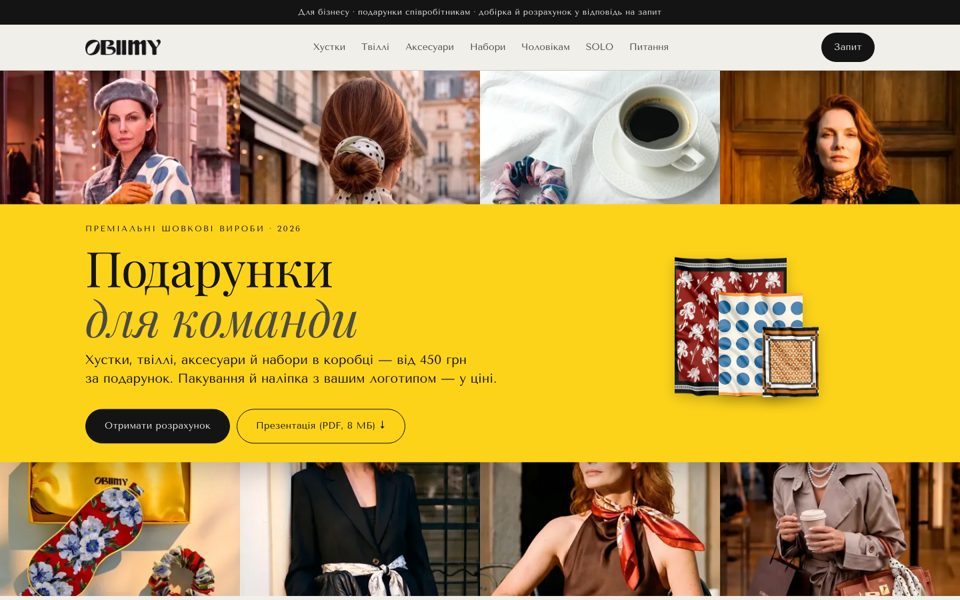
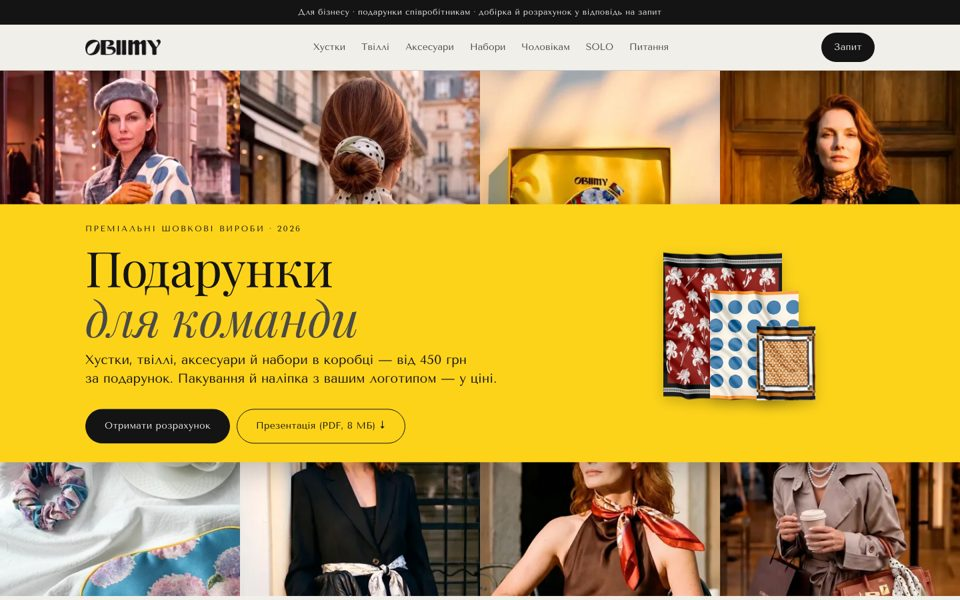
b2b-deck: chips outside the hero (sticky down the page), top bar hidden and 4:3 frames on the phone so the call sits in the first screen, the boxed mask in the top strip, larger nested scarves in the band

Changed region(s): [[0.0, 0.75, 0.25, 1.0], [0.5, 0.09, 0.75, 0.36], [0.6875, 0.42, 0.875, 0.69]]

diff --git a/b2b-deck.html b/b2b-deck.html
@@ -718,14 +718,15 @@
   .hero.dk-cover { padding: 0; position: relative; }
   .dk-mosaic { display: grid; grid-template-columns: repeat(4, 1fr); max-height: calc(100vh - 112px); overflow: hidden; } .dk-mosaic img { width: 100%; aspect-ratio: 4 / 5; object-fit: cover; display: block; }
   .dk-band { position: absolute; left: 0; right: 0; top: 50%; transform: translateY(-50%); background: #FDD31A; color: #141414; padding: clamp(18px, 2.4vw, 28px) 0; box-shadow: 0 10px 40px rgba(0,0,0,.25); } .dk-band .wrap { display: grid; grid-template-columns: 1fr auto; align-items: center; gap: 32px; }
-  .dk-band-art { position: relative; width: 300px; height: 190px; } .dk-band-art figure { position: absolute; bottom: 0; margin: 0; } .dk-band-art img { display: block; filter: drop-shadow(0 6px 10px rgba(0,0,0,.2)); } .dk-band-art .dk-n0 { left: 0; width: 56%; } .dk-band-art .dk-n1 { left: 22%; width: 42%; } .dk-band-art .dk-n2 { left: 44%; width: 28%; }
+  .dk-band-art { position: relative; width: clamp(240px, 22vw, 320px); height: 200px; justify-self: end; } .dk-band-art figure { position: absolute; bottom: 0; margin: 0; } .dk-band-art img { display: block; filter: drop-shadow(0 6px 10px rgba(0,0,0,.2)); } .dk-band-art .dk-n0 { left: 0; width: 56%; } .dk-band-art .dk-n1 { left: 22%; width: 42%; } .dk-band-art .dk-n2 { left: 44%; width: 28%; }
   .dk-band-t { max-width: 760px; } .dk-band .eyebrow { color: #141414; font-weight: 400; margin: 0 0 10px; }
   .dk-band h1 { font-size: var(--fs-h1); line-height: 1.02; margin: 0 0 12px; } .dk-band h1 i { color: #4A4A47; }
   .dk-band-lead { font-size: 1.2rem; line-height: 1.5; color: #141414; margin: 0 0 16px; max-width: 640px; }
   .dk-band .cta { display: flex; gap: 10px; flex-wrap: wrap; } .dk-band .btn-gold { background: #141414; color: #F1EFEA; } .dk-band .btn-line { border-color: #141414; color: #141414; }
   .dk-chips { display: none; }
-  @media (max-width: 900px) { .dk-mosaic { grid-template-columns: repeat(2, 1fr); max-height: 52vh; } .dk-mosaic img { aspect-ratio: 1 / 1; } .dk-mosaic img:nth-child(n+5) { display: none; } .dk-band { position: static; transform: none; box-shadow: none; padding: 22px 0 20px; } .dk-band .wrap { grid-template-columns: 1fr; } .dk-band-art { display: none; } .dk-band .cta { gap: 14px; } }
-  @media (max-width: 760px) { .dk-chips { display: flex; gap: 8px; overflow-x: auto; padding: 8px clamp(16px, 4vw, 48px); scrollbar-width: none; background: var(--bg); border-bottom: 1px solid var(--line); position: sticky; top: 69px; z-index: 40; } .dk-chips::-webkit-scrollbar { display: none; }
+  @media (max-width: 900px) { .dk-mosaic { grid-template-columns: repeat(2, 1fr); max-height: 52vh; } .dk-mosaic img { aspect-ratio: 4 / 3; } .dk-mosaic img:nth-child(n+5) { display: none; } .dk-band { position: static; transform: none; box-shadow: none; padding: 22px 0 20px; } .dk-band .wrap { grid-template-columns: 1fr; } .dk-band-art { display: none; } .dk-band .cta { gap: 14px; } }
+  @media (max-width: 640px) { .bar { display: none; } }
+  @media (max-width: 760px) { section[id] { scroll-margin-top: 150px; } .dk-chips { display: flex; gap: 8px; overflow-x: auto; padding: 8px clamp(16px, 4vw, 48px); scrollbar-width: none; background: var(--bg); border-bottom: 1px solid var(--line); position: sticky; top: 69px; z-index: 40; } .dk-chips::-webkit-scrollbar { display: none; }
     .dk-chips a { flex: none; font-size: .875rem; letter-spacing: .04em; padding: 10px 14px; min-height: 44px; display: inline-flex; align-items: center; border: 1px solid var(--line); border-radius: 999px; color: var(--ink); text-decoration: none; } }
   .dk-split { padding-block: clamp(40px, 6vw, 96px); } .dk-split .wrap { display: grid; grid-template-columns: 1fr 1fr; gap: clamp(24px, 5vw, 72px); align-items: center; }
   .dk-split figure { margin: 0; } .dk-split figure img { width: 100%; aspect-ratio: 148.5 / 210; object-fit: cover; display: block; }
@@ -784,15 +785,14 @@
 <main>
 
   <section class="hero dk-cover" id="top">
-    <div class="dk-mosaic"><img src="photo/solo/iskra-65-4-800.webp" srcset="photo/solo/iskra-65-4-480.webp 480w, photo/solo/iskra-65-4-800.webp 800w, photo/solo/iskra-65-4-1200.webp 1200w, photo/solo/iskra-65-4.webp 1600w" sizes="(max-width: 900px) 50vw, 25vw" width="1600" height="1600" alt="" style="object-position:50% 34%"><img src="photo/solo/flirt-tw-1-800.webp" srcset="photo/solo/flirt-tw-1-480.webp 480w, photo/solo/flirt-tw-1-800.webp 800w, photo/solo/flirt-tw-1-1200.webp 1200w, photo/solo/flirt-tw-1.webp 1600w" sizes="(max-width: 900px) 50vw, 25vw" width="1600" height="1600" alt="" style="object-position:50% 30%"><img src="photo/site/mask-shchyri-pochuttia-04-800.webp" srcset="photo/site/mask-shchyri-pochuttia-04-480.webp 480w, photo/site/mask-shchyri-pochuttia-04-800.webp 800w, photo/site/mask-shchyri-pochuttia-04-1200.webp 1200w, photo/site/mask-shchyri-pochuttia-04.jpg 1500w" sizes="(max-width: 900px) 50vw, 25vw" width="1500" height="1500" alt="" style="object-position:0% 72%"><img src="photo/solo/zolote-44-2-800.webp" srcset="photo/solo/zolote-44-2-480.webp 480w, photo/solo/zolote-44-2-800.webp 800w, photo/solo/zolote-44-2-1200.webp 1200w, photo/solo/zolote-44-2.webp 1600w" sizes="(max-width: 900px) 50vw, 25vw" width="1600" height="1600" alt="" style="object-position:50% 30%"><img src="photo/site/maska-dlia-snu-ta-rezynka-vpevnenist-03-800.webp" srcset="photo/site/maska-dlia-snu-ta-rezynka-vpevnenist-03-480.webp 480w, photo/site/maska-dlia-snu-ta-rezynka-vpevnenist-03-800.webp 800w, photo/site/maska-dlia-snu-ta-rezynka-vpevnenist-03-1200.webp 1200w, photo/site/maska-dlia-snu-ta-rezynka-vpevnenist-03.jpg 1500w" sizes="(max-width: 900px) 50vw, 25vw" width="1500" height="1500" alt="" loading="lazy" decoding="async" style="object-position:50% 50%"><img src="photo/solo/tysha-88-4-800.webp" srcset="photo/solo/tysha-88-4-480.webp 480w, photo/solo/tysha-88-4-800.webp 800w, photo/solo/tysha-88-4-1200.webp 1200w, photo/solo/tysha-88-4.webp 1600w" sizes="(max-width: 900px) 50vw, 25vw" width="1600" height="1600" alt="" loading="lazy" decoding="async" style="object-position:50% 32%"><img src="photo/solo/krok-44-2-800.webp" srcset="photo/solo/krok-44-2-480.webp 480w, photo/solo/krok-44-2-800.webp 800w, photo/solo/krok-44-2-1200.webp 1200w, photo/solo/krok-44-2.webp 1600w" sizes="(max-width: 900px) 50vw, 25vw" width="1600" height="1600" alt="" loading="lazy" decoding="async" style="object-position:50% 30%"><img src="photo/solo/flirt-65-4-800.webp" srcset="photo/solo/flirt-65-4-480.webp 480w, photo/solo/flirt-65-4-800.webp 800w, photo/solo/flirt-65-4-1200.webp 1200w, photo/solo/flirt-65-4.webp 1600w" sizes="(max-width: 900px) 50vw, 25vw" width="1600" height="1600" alt="" loading="lazy" decoding="async" style="object-position:50% 32%"></div>
+    <div class="dk-mosaic"><img src="photo/solo/iskra-65-4-800.webp" srcset="photo/solo/iskra-65-4-480.webp 480w, photo/solo/iskra-65-4-800.webp 800w, photo/solo/iskra-65-4-1200.webp 1200w, photo/solo/iskra-65-4.webp 1600w" sizes="(max-width: 900px) 50vw, 25vw" width="1600" height="1600" alt="" style="object-position:50% 34%"><img src="photo/solo/flirt-tw-1-800.webp" srcset="photo/solo/flirt-tw-1-480.webp 480w, photo/solo/flirt-tw-1-800.webp 800w, photo/solo/flirt-tw-1-1200.webp 1200w, photo/solo/flirt-tw-1.webp 1600w" sizes="(max-width: 900px) 50vw, 25vw" width="1600" height="1600" alt="" style="object-position:50% 30%"><img src="photo/site/maska-dlia-snu-ta-rezynka-vpevnenist-03-800.webp" srcset="photo/site/maska-dlia-snu-ta-rezynka-vpevnenist-03-480.webp 480w, photo/site/maska-dlia-snu-ta-rezynka-vpevnenist-03-800.webp 800w, photo/site/maska-dlia-snu-ta-rezynka-vpevnenist-03-1200.webp 1200w, photo/site/maska-dlia-snu-ta-rezynka-vpevnenist-03.jpg 1500w" sizes="(max-width: 900px) 50vw, 25vw" width="1500" height="1500" alt="" style="object-position:50% 45%"><img src="photo/solo/zolote-44-2-800.webp" srcset="photo/solo/zolote-44-2-480.webp 480w, photo/solo/zolote-44-2-800.webp 800w, photo/solo/zolote-44-2-1200.webp 1200w, photo/solo/zolote-44-2.webp 1600w" sizes="(max-width: 900px) 50vw, 25vw" width="1600" height="1600" alt="" style="object-position:50% 30%"><img src="photo/site/mask-shchyri-pochuttia-04-800.webp" srcset="photo/site/mask-shchyri-pochuttia-04-480.webp 480w, photo/site/mask-shchyri-pochuttia-04-800.webp 800w, photo/site/mask-shchyri-pochuttia-04-1200.webp 1200w, photo/site/mask-shchyri-pochuttia-04.jpg 1500w" sizes="(max-width: 900px) 50vw, 25vw" width="1500" height="1500" alt="" loading="lazy" decoding="async" style="object-position:0% 60%"><img src="photo/solo/tysha-88-4-800.webp" srcset="photo/solo/tysha-88-4-480.webp 480w, photo/solo/tysha-88-4-800.webp 800w, photo/solo/tysha-88-4-1200.webp 1200w, photo/solo/tysha-88-4.webp 1600w" sizes="(max-width: 900px) 50vw, 25vw" width="1600" height="1600" alt="" loading="lazy" decoding="async" style="object-position:50% 32%"><img src="photo/solo/krok-44-2-800.webp" srcset="photo/solo/krok-44-2-480.webp 480w, photo/solo/krok-44-2-800.webp 800w, photo/solo/krok-44-2-1200.webp 1200w, photo/solo/krok-44-2.webp 1600w" sizes="(max-width: 900px) 50vw, 25vw" width="1600" height="1600" alt="" loading="lazy" decoding="async" style="object-position:50% 30%"><img src="photo/solo/flirt-65-4-800.webp" srcset="photo/solo/flirt-65-4-480.webp 480w, photo/solo/flirt-65-4-800.webp 800w, photo/solo/flirt-65-4-1200.webp 1200w, photo/solo/flirt-65-4.webp 1600w" sizes="(max-width: 900px) 50vw, 25vw" width="1600" height="1600" alt="" loading="lazy" decoding="async" style="object-position:50% 32%"></div>
     <div class="dk-band"><div class="wrap">
       <div class="dk-band-t"><p class="eyebrow">Преміальні шовкові вироби · 2026</p><h1>Подарунки <i>для команди</i></h1>
       <p class="dk-band-lead">Хустки, твіллі, аксесуари й набори в коробці — від 450 грн за подарунок. Пакування й наліпка з вашим логотипом — у ціні.</p>
       <div class="cta"><a class="btn btn-gold" href="#request">Отримати розрахунок</a><a class="btn btn-line" href="obiimy-podarunky-dlia-komandy.pdf" download="Obiimy-podarunky-dlia-komandy.pdf" type="application/pdf">Презентація (PDF, 8 МБ) ↓</a></div></div>
       <div class="dk-band-art"><figure class="dk-n0"><img src="img/cut/avantiura-88-1-800.webp" srcset="img/cut/avantiura-88-1-480.webp 480w, img/cut/avantiura-88-1-800.webp 800w, img/cut/avantiura-88-1-1200.webp 1200w, img/cut/avantiura-88-1.webp 1587w" sizes="260px" width="1587" height="1626" alt="Хустка 88 × 88" loading="lazy" decoding="async"></figure><figure class="dk-n1"><img src="img/cut/iskra-65-1-800.webp" srcset="img/cut/iskra-65-1-480.webp 480w, img/cut/iskra-65-1-800.webp 800w, img/cut/iskra-65-1-1200.webp 1200w, img/cut/iskra-65-1.webp 1714w" sizes="260px" width="1714" height="1703" alt="Хустка 65 × 65" loading="lazy" decoding="async"></figure><figure class="dk-n2"><img src="img/cut/zolote-44-1-800.webp" srcset="img/cut/zolote-44-1-480.webp 480w, img/cut/zolote-44-1-800.webp 800w, img/cut/zolote-44-1-1200.webp 1200w, img/cut/zolote-44-1.webp 1598w" sizes="260px" width="1598" height="1636" alt="Хустка 44 × 44" loading="lazy" decoding="async"></figure></div>
     </div></div>
-    <nav class="dk-chips" aria-label="Розділи сторінки"><a href="#scarves">Хустки</a><a href="#twilly">Твіллі</a><a href="#acc">Аксесуари</a><a href="#sets">Набори</a><a href="#men">Чоловікам</a><a href="#solo">SOLO</a><a href="#faq">Питання</a></nav>
-  </section>
+  </section><nav class="dk-chips" aria-label="Розділи сторінки"><a href="#scarves">Хустки</a><a href="#twilly">Твіллі</a><a href="#acc">Аксесуари</a><a href="#sets">Набори</a><a href="#men">Чоловікам</a><a href="#solo">SOLO</a><a href="#faq">Питання</a></nav>
   <section class="dk-split" id="about"><div class="wrap">
     <figure><img src="photo/solo/iskra-65-2-800.webp" srcset="photo/solo/iskra-65-2-480.webp 480w, photo/solo/iskra-65-2-800.webp 800w, photo/solo/iskra-65-2-1200.webp 1200w, photo/solo/iskra-65-2.webp 1600w" sizes="(max-width: 900px) 100vw, 50vw" width="1600" height="1600" alt="Хустка «Іскра» 65 × 65 на плечах" loading="lazy" decoding="async" style="object-position:44% 0%"></figure>
     <div class="dk-ab"><p class="dk-ab-lead">Obiimy — український бренд натуральних шовкових виробів з авторськими принтами художниці та засновниці Світлани Сніжко. Ми створюємо речі, що поєднують красу, мистецтво та турботу — і дарують емоції з першого дотику.</p><p>Усі вироби — зі 100% натурального шовку преміум-класу: ніжний блиск, м’яка текстура, вишуканість у кожному образі.</p><p>«Обійми» були засновані в часи війни. Бренд бере участь у благодійних ініціативах на допомогу військовим і тим, хто постраждав від конфлікту, — і кожен, хто обирає «Обійми», стає частиною цієї місії.</p></div>

diff --git a/site/b2b-deck.html b/site/b2b-deck.html
@@ -721,14 +721,15 @@
   .hero.dk-cover { padding: 0; position: relative; }
   .dk-mosaic { display: grid; grid-template-columns: repeat(4, 1fr); max-height: calc(100vh - 112px); overflow: hidden; } .dk-mosaic img { width: 100%; aspect-ratio: 4 / 5; object-fit: cover; display: block; }
   .dk-band { position: absolute; left: 0; right: 0; top: 50%; transform: translateY(-50%); background: #FDD31A; color: #141414; padding: clamp(18px, 2.4vw, 28px) 0; box-shadow: 0 10px 40px rgba(0,0,0,.25); } .dk-band .wrap { display: grid; grid-template-columns: 1fr auto; align-items: center; gap: 32px; }
-  .dk-band-art { position: relative; width: 300px; height: 190px; } .dk-band-art figure { position: absolute; bottom: 0; margin: 0; } .dk-band-art img { display: block; filter: drop-shadow(0 6px 10px rgba(0,0,0,.2)); } .dk-band-art .dk-n0 { left: 0; width: 56%; } .dk-band-art .dk-n1 { left: 22%; width: 42%; } .dk-band-art .dk-n2 { left: 44%; width: 28%; }
+  .dk-band-art { position: relative; width: clamp(240px, 22vw, 320px); height: 200px; justify-self: end; } .dk-band-art figure { position: absolute; bottom: 0; margin: 0; } .dk-band-art img { display: block; filter: drop-shadow(0 6px 10px rgba(0,0,0,.2)); } .dk-band-art .dk-n0 { left: 0; width: 56%; } .dk-band-art .dk-n1 { left: 22%; width: 42%; } .dk-band-art .dk-n2 { left: 44%; width: 28%; }
   .dk-band-t { max-width: 760px; } .dk-band .eyebrow { color: #141414; font-weight: 400; margin: 0 0 10px; }
   .dk-band h1 { font-size: var(--fs-h1); line-height: 1.02; margin: 0 0 12px; } .dk-band h1 i { color: #4A4A47; }
   .dk-band-lead { font-size: 1.2rem; line-height: 1.5; color: #141414; margin: 0 0 16px; max-width: 640px; }
   .dk-band .cta { display: flex; gap: 10px; flex-wrap: wrap; } .dk-band .btn-gold { background: #141414; color: #F1EFEA; } .dk-band .btn-line { border-color: #141414; color: #141414; }
   .dk-chips { display: none; }
-  @media (max-width: 900px) { .dk-mosaic { grid-template-columns: repeat(2, 1fr); max-height: 52vh; } .dk-mosaic img { aspect-ratio: 1 / 1; } .dk-mosaic img:nth-child(n+5) { display: none; } .dk-band { position: static; transform: none; box-shadow: none; padding: 22px 0 20px; } .dk-band .wrap { grid-template-columns: 1fr; } .dk-band-art { display: none; } .dk-band .cta { gap: 14px; } }
-  @media (max-width: 760px) { .dk-chips { display: flex; gap: 8px; overflow-x: auto; padding: 8px clamp(16px, 4vw, 48px); scrollbar-width: none; background: var(--bg); border-bottom: 1px solid var(--line); position: sticky; top: 69px; z-index: 40; } .dk-chips::-webkit-scrollbar { display: none; }
+  @media (max-width: 900px) { .dk-mosaic { grid-template-columns: repeat(2, 1fr); max-height: 52vh; } .dk-mosaic img { aspect-ratio: 4 / 3; } .dk-mosaic img:nth-child(n+5) { display: none; } .dk-band { position: static; transform: none; box-shadow: none; padding: 22px 0 20px; } .dk-band .wrap { grid-template-columns: 1fr; } .dk-band-art { display: none; } .dk-band .cta { gap: 14px; } }
+  @media (max-width: 640px) { .bar { display: none; } }
+  @media (max-width: 760px) { section[id] { scroll-margin-top: 150px; } .dk-chips { display: flex; gap: 8px; overflow-x: auto; padding: 8px clamp(16px, 4vw, 48px); scrollbar-width: none; background: var(--bg); border-bottom: 1px solid var(--line); position: sticky; top: 69px; z-index: 40; } .dk-chips::-webkit-scrollbar { display: none; }
     .dk-chips a { flex: none; font-size: .875rem; letter-spacing: .04em; padding: 10px 14px; min-height: 44px; display: inline-flex; align-items: center; border: 1px solid var(--line); border-radius: 999px; color: var(--ink); text-decoration: none; } }
   .dk-split { padding-block: clamp(40px, 6vw, 96px); } .dk-split .wrap { display: grid; grid-template-columns: 1fr 1fr; gap: clamp(24px, 5vw, 72px); align-items: center; }
   .dk-split figure { margin: 0; } .dk-split figure img { width: 100%; aspect-ratio: 148.5 / 210; object-fit: cover; display: block; }
@@ -790,15 +791,14 @@
 <main>
 
   <section class="hero dk-cover" id="top">
-    <div class="dk-mosaic"><img src="photo/solo/iskra-65-4-800.webp" srcset="photo/solo/iskra-65-4-480.webp 480w, photo/solo/iskra-65-4-800.webp 800w, photo/solo/iskra-65-4-1200.webp 1200w, photo/solo/iskra-65-4.webp 1600w" sizes="(max-width: 900px) 50vw, 25vw" width="1600" height="1600" alt="" style="object-position:50% 34%"><img src="photo/solo/flirt-tw-1-800.webp" srcset="photo/solo/flirt-tw-1-480.webp 480w, photo/solo/flirt-tw-1-800.webp 800w, photo/solo/flirt-tw-1-1200.webp 1200w, photo/solo/flirt-tw-1.webp 1600w" sizes="(max-width: 900px) 50vw, 25vw" width="1600" height="1600" alt="" style="object-position:50% 30%"><img src="photo/site/mask-shchyri-pochuttia-04-800.webp" srcset="photo/site/mask-shchyri-pochuttia-04-480.webp 480w, photo/site/mask-shchyri-pochuttia-04-800.webp 800w, photo/site/mask-shchyri-pochuttia-04-1200.webp 1200w, photo/site/mask-shchyri-pochuttia-04.jpg 1500w" sizes="(max-width: 900px) 50vw, 25vw" width="1500" height="1500" alt="" style="object-position:0% 72%"><img src="photo/solo/zolote-44-2-800.webp" srcset="photo/solo/zolote-44-2-480.webp 480w, photo/solo/zolote-44-2-800.webp 800w, photo/solo/zolote-44-2-1200.webp 1200w, photo/solo/zolote-44-2.webp 1600w" sizes="(max-width: 900px) 50vw, 25vw" width="1600" height="1600" alt="" style="object-position:50% 30%"><img src="photo/site/maska-dlia-snu-ta-rezynka-vpevnenist-03-800.webp" srcset="photo/site/maska-dlia-snu-ta-rezynka-vpevnenist-03-480.webp 480w, photo/site/maska-dlia-snu-ta-rezynka-vpevnenist-03-800.webp 800w, photo/site/maska-dlia-snu-ta-rezynka-vpevnenist-03-1200.webp 1200w, photo/site/maska-dlia-snu-ta-rezynka-vpevnenist-03.jpg 1500w" sizes="(max-width: 900px) 50vw, 25vw" width="1500" height="1500" alt="" loading="lazy" decoding="async" style="object-position:50% 50%"><img src="photo/solo/tysha-88-4-800.webp" srcset="photo/solo/tysha-88-4-480.webp 480w, photo/solo/tysha-88-4-800.webp 800w, photo/solo/tysha-88-4-1200.webp 1200w, photo/solo/tysha-88-4.webp 1600w" sizes="(max-width: 900px) 50vw, 25vw" width="1600" height="1600" alt="" loading="lazy" decoding="async" style="object-position:50% 32%"><img src="photo/solo/krok-44-2-800.webp" srcset="photo/solo/krok-44-2-480.webp 480w, photo/solo/krok-44-2-800.webp 800w, photo/solo/krok-44-2-1200.webp 1200w, photo/solo/krok-44-2.webp 1600w" sizes="(max-width: 900px) 50vw, 25vw" width="1600" height="1600" alt="" loading="lazy" decoding="async" style="object-position:50% 30%"><img src="photo/solo/flirt-65-4-800.webp" srcset="photo/solo/flirt-65-4-480.webp 480w, photo/solo/flirt-65-4-800.webp 800w, photo/solo/flirt-65-4-1200.webp 1200w, photo/solo/flirt-65-4.webp 1600w" sizes="(max-width: 900px) 50vw, 25vw" width="1600" height="1600" alt="" loading="lazy" decoding="async" style="object-position:50% 32%"></div>
+    <div class="dk-mosaic"><img src="photo/solo/iskra-65-4-800.webp" srcset="photo/solo/iskra-65-4-480.webp 480w, photo/solo/iskra-65-4-800.webp 800w, photo/solo/iskra-65-4-1200.webp 1200w, photo/solo/iskra-65-4.webp 1600w" sizes="(max-width: 900px) 50vw, 25vw" width="1600" height="1600" alt="" style="object-position:50% 34%"><img src="photo/solo/flirt-tw-1-800.webp" srcset="photo/solo/flirt-tw-1-480.webp 480w, photo/solo/flirt-tw-1-800.webp 800w, photo/solo/flirt-tw-1-1200.webp 1200w, photo/solo/flirt-tw-1.webp 1600w" sizes="(max-width: 900px) 50vw, 25vw" width="1600" height="1600" alt="" style="object-position:50% 30%"><img src="photo/site/maska-dlia-snu-ta-rezynka-vpevnenist-03-800.webp" srcset="photo/site/maska-dlia-snu-ta-rezynka-vpevnenist-03-480.webp 480w, photo/site/maska-dlia-snu-ta-rezynka-vpevnenist-03-800.webp 800w, photo/site/maska-dlia-snu-ta-rezynka-vpevnenist-03-1200.webp 1200w, photo/site/maska-dlia-snu-ta-rezynka-vpevnenist-03.jpg 1500w" sizes="(max-width: 900px) 50vw, 25vw" width="1500" height="1500" alt="" style="object-position:50% 45%"><img src="photo/solo/zolote-44-2-800.webp" srcset="photo/solo/zolote-44-2-480.webp 480w, photo/solo/zolote-44-2-800.webp 800w, photo/solo/zolote-44-2-1200.webp 1200w, photo/solo/zolote-44-2.webp 1600w" sizes="(max-width: 900px) 50vw, 25vw" width="1600" height="1600" alt="" style="object-position:50% 30%"><img src="photo/site/mask-shchyri-pochuttia-04-800.webp" srcset="photo/site/mask-shchyri-pochuttia-04-480.webp 480w, photo/site/mask-shchyri-pochuttia-04-800.webp 800w, photo/site/mask-shchyri-pochuttia-04-1200.webp 1200w, photo/site/mask-shchyri-pochuttia-04.jpg 1500w" sizes="(max-width: 900px) 50vw, 25vw" width="1500" height="1500" alt="" loading="lazy" decoding="async" style="object-position:0% 60%"><img src="photo/solo/tysha-88-4-800.webp" srcset="photo/solo/tysha-88-4-480.webp 480w, photo/solo/tysha-88-4-800.webp 800w, photo/solo/tysha-88-4-1200.webp 1200w, photo/solo/tysha-88-4.webp 1600w" sizes="(max-width: 900px) 50vw, 25vw" width="1600" height="1600" alt="" loading="lazy" decoding="async" style="object-position:50% 32%"><img src="photo/solo/krok-44-2-800.webp" srcset="photo/solo/krok-44-2-480.webp 480w, photo/solo/krok-44-2-800.webp 800w, photo/solo/krok-44-2-1200.webp 1200w, photo/solo/krok-44-2.webp 1600w" sizes="(max-width: 900px) 50vw, 25vw" width="1600" height="1600" alt="" loading="lazy" decoding="async" style="object-position:50% 30%"><img src="photo/solo/flirt-65-4-800.webp" srcset="photo/solo/flirt-65-4-480.webp 480w, photo/solo/flirt-65-4-800.webp 800w, photo/solo/flirt-65-4-1200.webp 1200w, photo/solo/flirt-65-4.webp 1600w" sizes="(max-width: 900px) 50vw, 25vw" width="1600" height="1600" alt="" loading="lazy" decoding="async" style="object-position:50% 32%"></div>
     <div class="dk-band"><div class="wrap">
       <div class="dk-band-t"><p class="eyebrow">Преміальні шовкові вироби · 2026</p><h1>Подарунки <i>для команди</i></h1>
       <p class="dk-band-lead">Хустки, твіллі, аксесуари й набори в коробці — від 450 грн за подарунок. Пакування й наліпка з вашим логотипом — у ціні.</p>
       <div class="cta"><a class="btn btn-gold" href="#request">Отримати розрахунок</a><a class="btn btn-line" href="obiimy-podarunky-dlia-komandy.pdf" download="Obiimy-podarunky-dlia-komandy.pdf" type="application/pdf">Презентація (PDF, 8 МБ) ↓</a></div></div>
       <div class="dk-band-art"><figure class="dk-n0"><img src="img/cut/avantiura-88-1-800.webp" srcset="img/cut/avantiura-88-1-480.webp 480w, img/cut/avantiura-88-1-800.webp 800w, img/cut/avantiura-88-1-1200.webp 1200w, img/cut/avantiura-88-1.webp 1587w" sizes="260px" width="1587" height="1626" alt="Хустка 88 × 88" loading="lazy" decoding="async"></figure><figure class="dk-n1"><img src="img/cut/iskra-65-1-800.webp" srcset="img/cut/iskra-65-1-480.webp 480w, img/cut/iskra-65-1-800.webp 800w, img/cut/iskra-65-1-1200.webp 1200w, img/cut/iskra-65-1.webp 1714w" sizes="260px" width="1714" height="1703" alt="Хустка 65 × 65" loading="lazy" decoding="async"></figure><figure class="dk-n2"><img src="img/cut/zolote-44-1-800.webp" srcset="img/cut/zolote-44-1-480.webp 480w, img/cut/zolote-44-1-800.webp 800w, img/cut/zolote-44-1-1200.webp 1200w, img/cut/zolote-44-1.webp 1598w" sizes="260px" width="1598" height="1636" alt="Хустка 44 × 44" loading="lazy" decoding="async"></figure></div>
     </div></div>
-    <nav class="dk-chips" aria-label="Розділи сторінки"><a href="#scarves">Хустки</a><a href="#twilly">Твіллі</a><a href="#acc">Аксесуари</a><a href="#sets">Набори</a><a href="#men">Чоловікам</a><a href="#solo">SOLO</a><a href="#faq">Питання</a></nav>
-  </section>
+  </section><nav class="dk-chips" aria-label="Розділи сторінки"><a href="#scarves">Хустки</a><a href="#twilly">Твіллі</a><a href="#acc">Аксесуари</a><a href="#sets">Набори</a><a href="#men">Чоловікам</a><a href="#solo">SOLO</a><a href="#faq">Питання</a></nav>
   <section class="dk-split" id="about"><div class="wrap">
     <figure><img src="photo/solo/iskra-65-2-800.webp" srcset="photo/solo/iskra-65-2-480.webp 480w, photo/solo/iskra-65-2-800.webp 800w, photo/solo/iskra-65-2-1200.webp 1200w, photo/solo/iskra-65-2.webp 1600w" sizes="(max-width: 900px) 100vw, 50vw" width="1600" height="1600" alt="Хустка «Іскра» 65 × 65 на плечах" loading="lazy" decoding="async" style="object-position:44% 0%"></figure>
     <div class="dk-ab"><p class="dk-ab-lead">Obiimy — український бренд натуральних шовкових виробів з авторськими принтами художниці та засновниці Світлани Сніжко. Ми створюємо речі, що поєднують красу, мистецтво та турботу — і дарують емоції з першого дотику.</p><p>Усі вироби — зі 100% натурального шовку преміум-класу: ніжний блиск, м’яка текстура, вишуканість у кожному образі.</p><p>«Обійми» були засновані в часи війни. Бренд бере участь у благодійних ініціативах на допомогу військовим і тим, хто постраждав від конфлікту, — і кожен, хто обирає «Обійми», стає частиною цієї місії.</p></div>

diff --git a/src/build-b2b-deck.py b/src/build-b2b-deck.py
@@ -16,8 +16,8 @@ PHONE, PHONE_HREF, TG, MAIL, SHOWROOM = team.PHONE, team.PHONE_HREF, team.TG, te
 money = deck.money
 
 # ── data straight from the deck ───────────────────────────────────────────────────────────────────────────────────
-MOSAIC = [("photo/solo/iskra-65-4.webp", "50% 34%"), ("photo/solo/flirt-tw-1.webp", "50% 30%"), ("photo/site/mask-shchyri-pochuttia-04.jpg", "0% 72%"), ("photo/solo/zolote-44-2.webp", "50% 30%"),
-          ("photo/site/maska-dlia-snu-ta-rezynka-vpevnenist-03.jpg", "50% 50%"), ("photo/solo/tysha-88-4.webp", "50% 32%"), ("photo/solo/krok-44-2.webp", "50% 30%"), ("photo/solo/flirt-65-4.webp", "50% 32%")]   # the cover (cvz9); crops for the strips above and below the band
+MOSAIC = [("photo/solo/iskra-65-4.webp", "50% 34%"), ("photo/solo/flirt-tw-1.webp", "50% 30%"), ("photo/site/maska-dlia-snu-ta-rezynka-vpevnenist-03.jpg", "50% 45%"), ("photo/solo/zolote-44-2.webp", "50% 30%"),
+          ("photo/site/mask-shchyri-pochuttia-04.jpg", "0% 60%"), ("photo/solo/tysha-88-4.webp", "50% 32%"), ("photo/solo/krok-44-2.webp", "50% 30%"), ("photo/solo/flirt-65-4.webp", "50% 32%")]   # the cover (cvz9); crops for the strips above and below the band
 MORE = [("Сертифікат", "Номінали 1 000, 1 500, 2 000, 2 500 і 4 000 грн; діє три місяці.", 1000, "img/cert-card.png"),
         ("Маска, закладка й резинка", "Три речі в одному принті, у коробці.", 3600, "img/cut/sleep-pidnesennia.webp"),
         ("Хустка й кільце", "Хустка 65 × 65 і кільце — збираємо на замовлення.", 3650, "img/cut/duo-kava-ring.webp"),
@@ -36,7 +36,6 @@ def cutimg(name, alt, w=240): return img(f"img/cut/{name}.webp", alt, sizes=f"{w
 NAV = [("Хустки", "scarves"), ("Твіллі", "twilly"), ("Аксесуари", "acc"), ("Набори", "sets"), ("Чоловікам", "men"), ("SOLO", "solo"), ("Питання", "faq")]
 def hero():
     frames = "".join(img(f, "", sizes="(max-width: 900px) 50vw, 25vw", lazy=i > 3, style=f"object-position:{p}") for i, (f, p) in enumerate(MOSAIC))
-    chips = "".join(f'<a href="#{h}">{t}</a>' for t, h in NAV)
     return f'''
   <section class="hero dk-cover" id="top">
     <div class="dk-mosaic">{frames}</div>
@@ -46,8 +45,10 @@ def hero():
       <div class="cta"><a class="btn btn-gold" href="#request">Отримати розрахунок</a><a class="btn btn-line" href="obiimy-podarunky-dlia-komandy.pdf" download="Obiimy-podarunky-dlia-komandy.pdf" type="application/pdf">Презентація (PDF, {team.PDF_MB} МБ) ↓</a></div></div>
       <div class="dk-band-art">{"".join(f'<figure class="dk-n{i}">{img(f"img/cut/{c}.webp", f"Хустка {n}", sizes="260px")}</figure>' for i, (c, mm, n, p) in enumerate(deck.NEST))}</div>
     </div></div>
-    <nav class="dk-chips" aria-label="Розділи сторінки">{chips}</nav>
   </section>'''
+
+def chips():   # the phone's section menu — outside the hero so that sticky works down the whole page
+    return '<nav class="dk-chips" aria-label="Розділи сторінки">' + "".join(f'<a href="#{h}">{t}</a>' for t, h in NAV) + '</nav>'
 
 def about():
     paras = "".join(f"<p>{x}</p>" for x in (deck.ABOUT[0], deck.ABOUT[3]))   # the lead, the silk and the charity — the rest of the site's text is for a shopper, not a buyer
@@ -143,7 +144,7 @@ def faq():
   <section class="dk-faq" id="faq"><div class="wrap"><h2>Запитання та відповіді</h2><div class="dk-faq2">{items}</div></div></section>'''
 
 def page():
-    body = hero() + about() + steps() + scarves() + twilly() + accessories() + sets() + midcta() + more() + men() + solo() + faq() + main.with_qr(
+    body = hero() + chips() + about() + steps() + scarves() + twilly() + accessories() + sets() + midcta() + more() + men() + solo() + faq() + main.with_qr(
         team.request_section("f-deck", "Подарунки для команди (презентація)", "Зв’яжіться з нами — <i>разом підберемо все для вашої команди</i>",
                              "Нагода, кількість людей і дата вручення — цього досить для першого листа. У відповідь надішлемо добірку з фото й розрахунок.", "sets", corp=True)) + team.script("f-deck", "")
     return dict(slug="b2b-deck", skin="deck", bar=team.BAR, title="Подарунки для команди — преміальні шовкові вироби Obiimy · хустки, твіллі, аксесуари, набори",
@@ -156,14 +157,15 @@ CSS = """
   .hero.dk-cover { padding: 0; position: relative; }
   .dk-mosaic { display: grid; grid-template-columns: repeat(4, 1fr); max-height: calc(100vh - 112px); overflow: hidden; } .dk-mosaic img { width: 100%; aspect-ratio: 4 / 5; object-fit: cover; display: block; }
   .dk-band { position: absolute; left: 0; right: 0; top: 50%; transform: translateY(-50%); background: #FDD31A; color: #141414; padding: clamp(18px, 2.4vw, 28px) 0; box-shadow: 0 10px 40px rgba(0,0,0,.25); } .dk-band .wrap { display: grid; grid-template-columns: 1fr auto; align-items: center; gap: 32px; }
-  .dk-band-art { position: relative; width: 300px; height: 190px; } .dk-band-art figure { position: absolute; bottom: 0; margin: 0; } .dk-band-art img { display: block; filter: drop-shadow(0 6px 10px rgba(0,0,0,.2)); } .dk-band-art .dk-n0 { left: 0; width: 56%; } .dk-band-art .dk-n1 { left: 22%; width: 42%; } .dk-band-art .dk-n2 { left: 44%; width: 28%; }
+  .dk-band-art { position: relative; width: clamp(240px, 22vw, 320px); height: 200px; justify-self: end; } .dk-band-art figure { position: absolute; bottom: 0; margin: 0; } .dk-band-art img { display: block; filter: drop-shadow(0 6px 10px rgba(0,0,0,.2)); } .dk-band-art .dk-n0 { left: 0; width: 56%; } .dk-band-art .dk-n1 { left: 22%; width: 42%; } .dk-band-art .dk-n2 { left: 44%; width: 28%; }
   .dk-band-t { max-width: 760px; } .dk-band .eyebrow { color: #141414; font-weight: 400; margin: 0 0 10px; }
   .dk-band h1 { font-size: clamp(2.4rem, 4.6vw, 3.8rem); line-height: 1.02; margin: 0 0 12px; } .dk-band h1 i { color: #4A4A47; }
   .dk-band-lead { font-size: clamp(1rem, 1.3vw, 1.15rem); line-height: 1.5; color: #141414; margin: 0 0 16px; max-width: 640px; }
   .dk-band .cta { display: flex; gap: 10px; flex-wrap: wrap; } .dk-band .btn-gold { background: #141414; color: #F1EFEA; } .dk-band .btn-line { border-color: #141414; color: #141414; }
   .dk-chips { display: none; }
-  @media (max-width: 900px) { .dk-mosaic { grid-template-columns: repeat(2, 1fr); max-height: 52vh; } .dk-mosaic img { aspect-ratio: 1 / 1; } .dk-mosaic img:nth-child(n+5) { display: none; } .dk-band { position: static; transform: none; box-shadow: none; padding: 22px 0 20px; } .dk-band .wrap { grid-template-columns: 1fr; } .dk-band-art { display: none; } .dk-band .cta { gap: 14px; } }
-  @media (max-width: 760px) { .dk-chips { display: flex; gap: 8px; overflow-x: auto; padding: 8px clamp(16px, 4vw, 48px); scrollbar-width: none; background: var(--bg); border-bottom: 1px solid var(--line); position: sticky; top: 69px; z-index: 40; } .dk-chips::-webkit-scrollbar { display: none; }
+  @media (max-width: 900px) { .dk-mosaic { grid-template-columns: repeat(2, 1fr); max-height: 52vh; } .dk-mosaic img { aspect-ratio: 4 / 3; } .dk-mosaic img:nth-child(n+5) { display: none; } .dk-band { position: static; transform: none; box-shadow: none; padding: 22px 0 20px; } .dk-band .wrap { grid-template-columns: 1fr; } .dk-band-art { display: none; } .dk-band .cta { gap: 14px; } }
+  @media (max-width: 640px) { .bar { display: none; } }
+  @media (max-width: 760px) { section[id] { scroll-margin-top: 150px; } .dk-chips { display: flex; gap: 8px; overflow-x: auto; padding: 8px clamp(16px, 4vw, 48px); scrollbar-width: none; background: var(--bg); border-bottom: 1px solid var(--line); position: sticky; top: 69px; z-index: 40; } .dk-chips::-webkit-scrollbar { display: none; }
     .dk-chips a { flex: none; font-size: .82rem; letter-spacing: .04em; padding: 10px 14px; min-height: 44px; display: inline-flex; align-items: center; border: 1px solid var(--line); border-radius: 999px; color: var(--ink); text-decoration: none; } }
   .dk-split { padding-block: clamp(40px, 6vw, 96px); } .dk-split .wrap { display: grid; grid-template-columns: 1fr 1fr; gap: clamp(24px, 5vw, 72px); align-items: center; }
   .dk-split figure { margin: 0; } .dk-split figure img { width: 100%; aspect-ratio: 148.5 / 210; object-fit: cover; display: block; }
